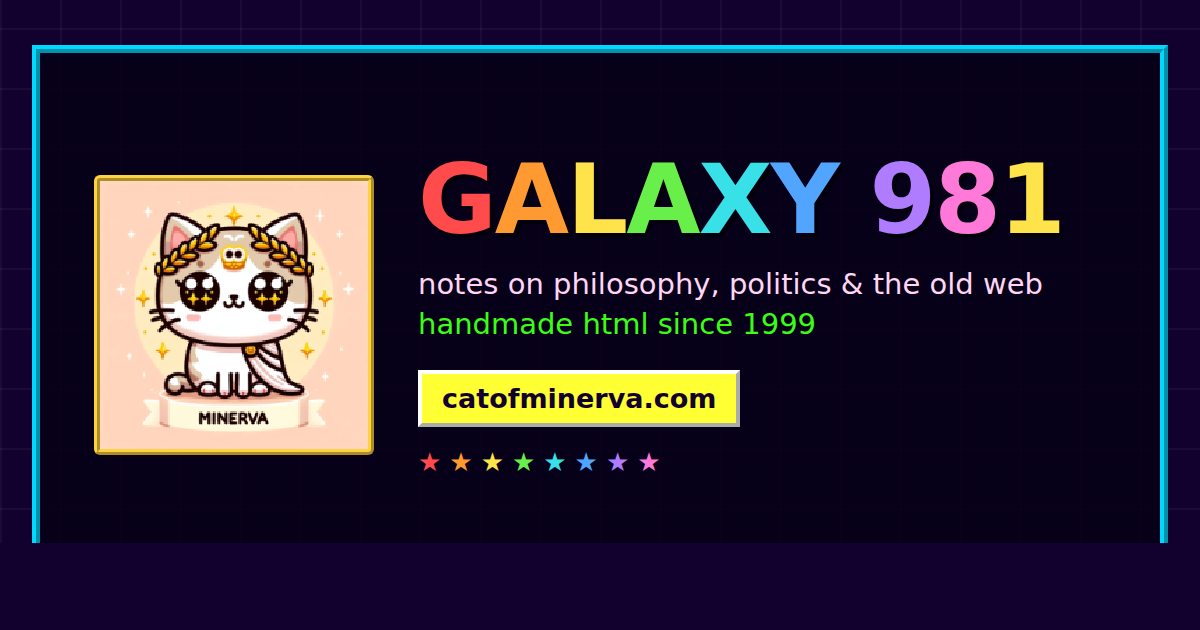
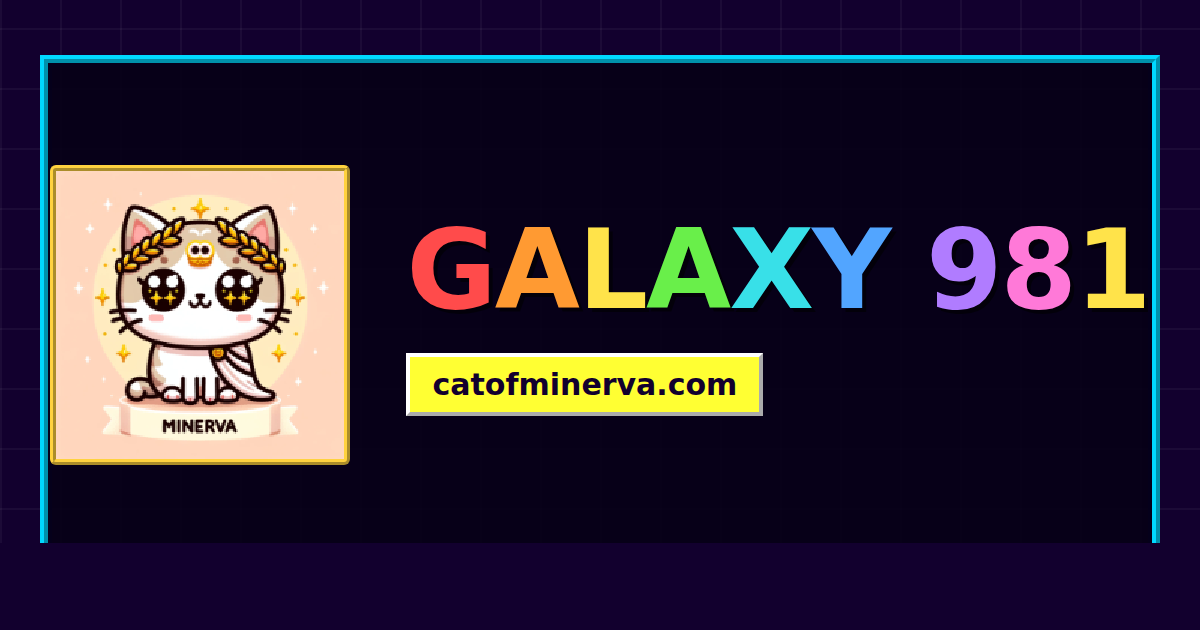
Use faviconcat.gif and the pages' own wording on index and guestbook
The previous commit reverted the other 45 pages but missed these two and
the image, because the staging step got cut off. This lands what was
meant to go with it.

Favicon is faviconcat.gif on both pages; the apple-touch-icon pointing at
Minerva.png is gone.

Descriptions are the pages' own words instead of written-up copy:
"welcome to my webspace" on the index, "Sign the guestbook." on the
guestbook. Both og:titles now match each page's existing <title> exactly,
so the guestbook reads "Galaxy 981 // Guestbook" rather than a reformatted
version of it.

preview.png drops the invented tagline, leaving the cat, the name and the
domain.

Changed region(s): [[0.0, 0.0603, 0.9867, 0.8746], [0.3392, 0.7238, 0.555, 0.754]]

diff --git a/index.html b/index.html
@@ -2,26 +2,23 @@
 <html lang="en">
 <head>
   <meta charset="UTF-8">
-<link rel="icon" href="/Minerva.png" type="image/png">
-<link rel="apple-touch-icon" href="/Minerva.png">
+<link rel="icon" href="/faviconcat.gif" type="image/gif">
 <link rel="canonical" href="https://catofminerva.com/">
-<meta name="description" content="Notes on philosophy, politics and the old web. Handmade HTML, too many gifs, permanently under construction.">
-<meta name="theme-color" content="#12002e">
+<meta name="description" content="welcome to my webspace">
 <meta property="og:type" content="website">
 <meta property="og:site_name" content="Galaxy 981">
-<meta property="og:locale" content="en_GB">
 <meta property="og:title" content="Galaxy 981">
-<meta property="og:description" content="Notes on philosophy, politics and the old web. Handmade HTML, too many gifs, permanently under construction.">
+<meta property="og:description" content="welcome to my webspace">
 <meta property="og:url" content="https://catofminerva.com/">
 <meta property="og:image" content="https://catofminerva.com/preview.png">
 <meta property="og:image:secure_url" content="https://catofminerva.com/preview.png">
 <meta property="og:image:type" content="image/png">
 <meta property="og:image:width" content="1200">
 <meta property="og:image:height" content="630">
-<meta property="og:image:alt" content="Galaxy 981 — catofminerva.com">
+<meta property="og:image:alt" content="Galaxy 981">
 <meta name="twitter:card" content="summary_large_image">
 <meta name="twitter:title" content="Galaxy 981">
-<meta name="twitter:description" content="Notes on philosophy, politics and the old web. Handmade HTML, too many gifs, permanently under construction.">
+<meta name="twitter:description" content="welcome to my webspace">
 <meta name="twitter:image" content="https://catofminerva.com/preview.png">
 
   <meta name="viewport" content="width=device-width, initial-scale=1, viewport-fit=cover">

diff --git a/guestbook.html b/guestbook.html
@@ -2,26 +2,23 @@
 <html lang="en">
 <head>
   <meta charset="UTF-8">
-<link rel="icon" href="/Minerva.png" type="image/png">
-<link rel="apple-touch-icon" href="/Minerva.png">
+<link rel="icon" href="/faviconcat.gif" type="image/gif">
 <link rel="canonical" href="https://catofminerva.com/guestbook.html">
-<meta name="description" content="Sign the guestbook. Say something weird. Links are okay.">
-<meta name="theme-color" content="#12002e">
+<meta name="description" content="Sign the guestbook.">
 <meta property="og:type" content="website">
 <meta property="og:site_name" content="Galaxy 981">
-<meta property="og:locale" content="en_GB">
-<meta property="og:title" content="Guestbook · Galaxy 981">
-<meta property="og:description" content="Sign the guestbook. Say something weird. Links are okay.">
+<meta property="og:title" content="Galaxy 981 // Guestbook">
+<meta property="og:description" content="Sign the guestbook.">
 <meta property="og:url" content="https://catofminerva.com/guestbook.html">
 <meta property="og:image" content="https://catofminerva.com/preview.png">
 <meta property="og:image:secure_url" content="https://catofminerva.com/preview.png">
 <meta property="og:image:type" content="image/png">
 <meta property="og:image:width" content="1200">
 <meta property="og:image:height" content="630">
-<meta property="og:image:alt" content="Galaxy 981 — catofminerva.com">
+<meta property="og:image:alt" content="Galaxy 981">
 <meta name="twitter:card" content="summary_large_image">
-<meta name="twitter:title" content="Guestbook · Galaxy 981">
-<meta name="twitter:description" content="Sign the guestbook. Say something weird. Links are okay.">
+<meta name="twitter:title" content="Galaxy 981 // Guestbook">
+<meta name="twitter:description" content="Sign the guestbook.">
 <meta name="twitter:image" content="https://catofminerva.com/preview.png">
 
   <meta name="viewport" content="width=device-width, initial-scale=1">
